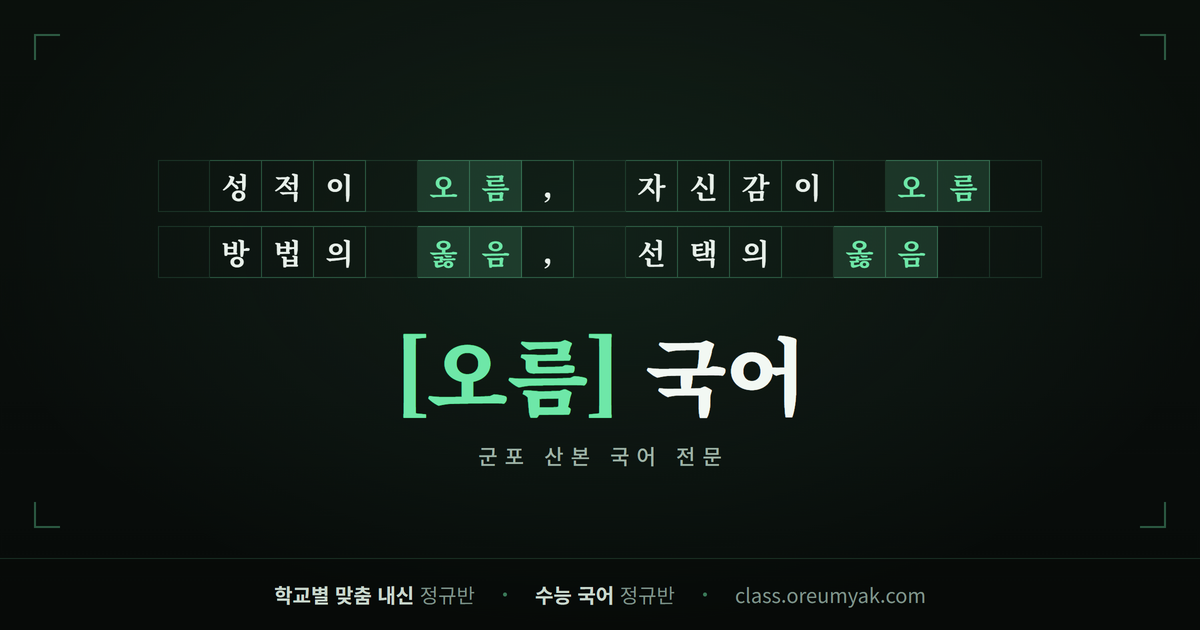
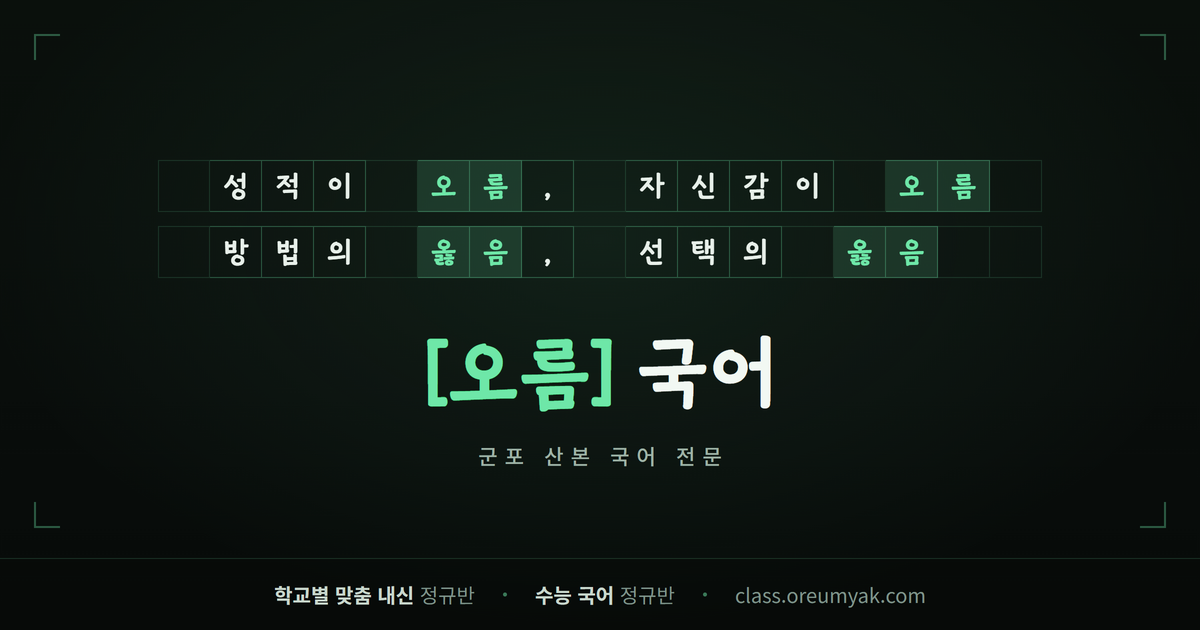
제목 서체를 학교안심 받아쓰기로 교체 (영상 썸네일 제외 전 영역)
- Tailwind serif 스택과 테마 CSS의 세리프 선언, 인트로 원고지, OG 이미지에
  Hakgyoansim Badasseugi(KERIS, OFL) 적용 — jsdelivr 동적 서브셋 로드
- Noto Serif KR은 폴백으로 유지

diff --git a/oreum-theme.css b/oreum-theme.css
@@ -21,7 +21,7 @@ html.light {
 ::-webkit-scrollbar{width:8px;height:8px;}::-webkit-scrollbar-track{background:rgb(var(--c-surface-bright));}::-webkit-scrollbar-thumb{background:rgb(var(--c-surface-container-highest));border-radius:4px;}
 
 .eyebrow{font-size:12px;font-weight:700;letter-spacing:.22em;text-transform:uppercase;color:rgb(var(--c-gold));}
-.sec-title{font-family:'Noto Serif KR',serif;font-weight:700;}
+.sec-title{font-family:'Hakgyoansim Badasseugi','Noto Serif KR',serif;font-weight:700;}
 
 /* scroll reveal */
 .fi{opacity:0;transform:translateY(22px);transition:opacity .6s cubic-bezier(.22,1,.36,1),transform .6s cubic-bezier(.22,1,.36,1);}
@@ -46,7 +46,7 @@ html.light {
 .tp-card{border:1px solid rgb(var(--c-outline-variant));border-radius:20px;background:rgb(var(--c-surface-container-lowest));overflow:hidden;}
 .tp-head{display:flex;align-items:center;gap:16px;padding:22px 26px;cursor:pointer;}
 .tp-badge{font-size:11px;font-weight:800;letter-spacing:.08em;color:rgb(var(--c-on-secondary));background:rgb(var(--c-secondary));padding:5px 11px;border-radius:999px;white-space:nowrap;}
-.tp-ttl{font-family:'Noto Serif KR',serif;font-weight:700;font-size:19px;color:rgb(var(--c-on-surface));display:flex;flex-direction:column;gap:3px;}
+.tp-ttl{font-family:'Hakgyoansim Badasseugi','Noto Serif KR',serif;font-weight:700;font-size:19px;color:rgb(var(--c-on-surface));display:flex;flex-direction:column;gap:3px;}
 .tp-ttl small{font-family:'Inter','Noto Sans KR';font-weight:500;font-size:12.5px;color:rgb(var(--c-on-surface-variant));letter-spacing:0;}
 .tp-chev{margin-left:auto;display:flex;align-items:center;gap:8px;color:rgb(var(--c-secondary));font-size:13px;font-weight:700;white-space:nowrap;}
 .tp-chev .ar{transition:transform .3s;}
@@ -62,7 +62,7 @@ html.light {
 .tc-photo{width:96px;height:96px;border-radius:50%;object-fit:cover;object-position:top;margin:0 auto 14px;border:2px solid rgba(110,231,168,.35);background:rgb(var(--c-surface-container));}
 .tc-role{display:inline-block;font-size:11px;font-weight:700;color:rgb(var(--c-secondary));background:rgb(var(--c-secondary-fixed));padding:3px 10px;border-radius:999px;margin-bottom:8px;}
 .tc-role.head{color:#1a1206;background:rgb(var(--c-gold));}
-.tc-name{font-family:'Noto Serif KR',serif;font-weight:700;font-size:18px;color:rgb(var(--c-on-surface));}
+.tc-name{font-family:'Hakgyoansim Badasseugi','Noto Serif KR',serif;font-weight:700;font-size:18px;color:rgb(var(--c-on-surface));}
 .tc-desc{font-size:12.5px;color:rgb(var(--c-on-surface-variant));margin-top:6px;line-height:1.5;}
 
 /* 강사 페이지 featured 원장 카드 (고정 다크) */
@@ -90,7 +90,7 @@ html.light {
 .mgmt-icon{width:52px;height:52px;margin:0 auto 16px;border-radius:14px;background:rgb(var(--c-secondary-fixed));color:rgb(var(--c-secondary));display:flex;align-items:center;justify-content:center;}
 .mgmt-icon svg{width:26px;height:26px;}
 .mgmt-title{font-size:13px;font-weight:600;color:rgb(var(--c-on-surface-variant));}
-.mgmt-value{font-family:'Noto Serif KR',serif;font-weight:700;font-size:26px;color:rgb(var(--c-on-surface));margin:6px 0 12px;}
+.mgmt-value{font-family:'Hakgyoansim Badasseugi','Noto Serif KR',serif;font-weight:700;font-size:26px;color:rgb(var(--c-on-surface));margin:6px 0 12px;}
 .mgmt-desc{font-size:13px;line-height:1.6;color:rgb(var(--c-on-surface-variant));}
 
 /* ===== 유튜브 ===== */
@@ -109,7 +109,7 @@ html.light {
 /* ===== 여름특강 시간표 (요일 컬럼 · 시간대 그룹 · 동시 강좌) ===== */
 .si-grid{display:grid;grid-template-columns:repeat(6,minmax(0,1fr));gap:15px;}
 .si-dh{display:flex;align-items:center;gap:9px;padding-bottom:12px;margin-bottom:16px;border-bottom:2px solid rgb(var(--c-outline-variant));}
-.si-dname{font-family:'Noto Serif KR',serif;font-weight:700;font-size:17px;color:rgb(var(--c-on-surface));}
+.si-dname{font-family:'Hakgyoansim Badasseugi','Noto Serif KR',serif;font-weight:700;font-size:17px;color:rgb(var(--c-on-surface));}
 .si-dcnt{width:22px;height:22px;border-radius:50%;display:flex;align-items:center;justify-content:center;font-size:11.5px;font-weight:700;background:rgb(var(--c-surface-container-high));color:rgb(var(--c-on-surface-variant));}
 .si-dh.wknd .si-dname{color:rgb(var(--c-secondary));}
 .si-dh.wknd .si-dcnt{background:rgb(var(--c-secondary-fixed));color:rgb(var(--c-secondary));}
@@ -151,9 +151,9 @@ html.light {
 .sum-wrap{display:flex;flex-direction:column;gap:20px;}
 .sum-day{background:rgb(var(--c-surface-container-lowest));border:1px solid rgb(var(--c-outline-variant));border-radius:16px;overflow:hidden;}
 .sum-dh{display:flex;align-items:center;gap:12px;padding:14px 20px;border-bottom:1px solid rgb(var(--c-outline-variant));background:rgb(var(--c-surface-container));}
-.sum-dh .dnum{width:30px;height:30px;border-radius:9px;display:flex;align-items:center;justify-content:center;font-family:'Noto Serif KR',serif;font-weight:700;font-size:15px;background:rgb(var(--c-secondary-fixed));color:rgb(var(--c-secondary));}
+.sum-dh .dnum{width:30px;height:30px;border-radius:9px;display:flex;align-items:center;justify-content:center;font-family:'Hakgyoansim Badasseugi','Noto Serif KR',serif;font-weight:700;font-size:15px;background:rgb(var(--c-secondary-fixed));color:rgb(var(--c-secondary));}
 .sum-dh.wknd .dnum{background:rgb(var(--c-secondary));color:rgb(var(--c-on-secondary));}
-.sum-dh .dname{font-family:'Noto Serif KR',serif;font-weight:700;font-size:16px;color:rgb(var(--c-on-surface));}
+.sum-dh .dname{font-family:'Hakgyoansim Badasseugi','Noto Serif KR',serif;font-weight:700;font-size:16px;color:rgb(var(--c-on-surface));}
 .sum-dh .dcnt{margin-left:auto;font-size:12px;font-weight:700;color:rgb(var(--c-on-surface-variant));background:rgb(var(--c-surface-container-high));padding:4px 11px;border-radius:999px;}
 .sum-row{display:grid;grid-template-columns:150px 1fr auto auto;gap:16px;align-items:center;padding:14px 20px;transition:background .2s;}
 .sum-row + .sum-row{border-top:1px solid rgb(var(--c-outline-variant));}
@@ -183,7 +183,7 @@ html.light {
 .course-card{background:rgb(var(--c-surface-container-lowest));border:1px solid rgb(var(--c-outline-variant));border-radius:16px;overflow:hidden;}
 .card-main{padding:22px 24px;}
 .card-header{display:flex;align-items:center;margin-bottom:14px;}
-.card-school-name{font-family:'Noto Serif KR',serif;font-weight:700;font-size:19px;color:rgb(var(--c-on-surface));}
+.card-school-name{font-family:'Hakgyoansim Badasseugi','Noto Serif KR',serif;font-weight:700;font-size:19px;color:rgb(var(--c-on-surface));}
 .card-grade{font-size:11px;font-weight:700;color:rgb(var(--c-secondary));background:rgb(var(--c-secondary-fixed));padding:3px 9px;border-radius:999px;}
 .card-meta{display:flex;flex-direction:column;gap:8px;margin-bottom:14px;}
 .card-meta-item{display:flex;align-items:center;gap:8px;font-size:13px;color:rgb(var(--c-on-surface-variant));}
@@ -211,7 +211,7 @@ html.light {
 .wk-scroll{overflow-x:auto;-webkit-overflow-scrolling:touch;padding-bottom:4px;}
 .wk-grid{display:grid;grid-template-columns:58px repeat(6,minmax(148px,1fr));gap:8px;min-width:860px;}
 .wk-corner{}
-.wk-dayh{background:rgb(var(--c-surface-container));border:1px solid rgb(var(--c-outline-variant));border-radius:12px;padding:11px 0;text-align:center;font-family:'Noto Serif KR',serif;font-weight:700;font-size:15px;color:rgb(var(--c-on-surface));}
+.wk-dayh{background:rgb(var(--c-surface-container));border:1px solid rgb(var(--c-outline-variant));border-radius:12px;padding:11px 0;text-align:center;font-family:'Hakgyoansim Badasseugi','Noto Serif KR',serif;font-weight:700;font-size:15px;color:rgb(var(--c-on-surface));}
 .wk-dayh.wknd{color:rgb(var(--c-secondary));background:rgb(var(--c-secondary-fixed));border-color:rgba(110,231,168,.28);}
 .wk-timeh{display:flex;flex-direction:column;align-items:center;justify-content:center;gap:2px;font-size:12px;font-weight:700;color:rgb(var(--c-on-surface-variant));}
 .wk-timeh small{font-size:10px;font-weight:600;opacity:.7;}
@@ -252,7 +252,7 @@ html.light {
 .faq-item + .faq-item{margin-top:10px;}
 .faq-item summary{list-style:none;cursor:pointer;padding:18px 22px;display:flex;align-items:center;gap:12px;font-size:15px;font-weight:600;color:rgb(var(--c-on-surface));}
 .faq-item summary::-webkit-details-marker{display:none;}
-.faq-item summary .q{width:24px;height:24px;border-radius:7px;background:rgb(var(--c-secondary-fixed));color:rgb(var(--c-secondary));display:flex;align-items:center;justify-content:center;font-weight:800;font-size:13px;flex-shrink:0;font-family:'Noto Serif KR',serif;}
+.faq-item summary .q{width:24px;height:24px;border-radius:7px;background:rgb(var(--c-secondary-fixed));color:rgb(var(--c-secondary));display:flex;align-items:center;justify-content:center;font-weight:800;font-size:13px;flex-shrink:0;font-family:'Hakgyoansim Badasseugi','Noto Serif KR',serif;}
 .faq-item summary .chev{margin-left:auto;transition:transform .3s;color:rgb(var(--c-on-surface-variant));}
 .faq-item[open] summary .chev{transform:rotate(180deg);}
 .faq-a{padding:0 22px 20px 58px;font-size:14px;line-height:1.7;color:rgb(var(--c-on-surface-variant));}
@@ -265,10 +265,10 @@ html.light {
 
 /* ===== 실적 통계 ===== */
 .res-stat{text-align:center;padding:26px 16px;background:rgb(var(--c-surface-container-lowest));border:1px solid rgb(var(--c-outline-variant));border-radius:18px;}
-.res-num{font-family:'Noto Serif KR',serif;font-weight:700;font-size:40px;color:rgb(var(--c-secondary));line-height:1;}
+.res-num{font-family:'Hakgyoansim Badasseugi','Noto Serif KR',serif;font-weight:700;font-size:40px;color:rgb(var(--c-secondary));line-height:1;}
 .res-lb{font-size:13px;color:rgb(var(--c-on-surface-variant));margin-top:10px;}
 .res-case{display:flex;align-items:center;gap:14px;background:rgb(var(--c-surface-container-lowest));border:1px solid rgb(var(--c-outline-variant));border-radius:14px;padding:16px 20px;}
-.res-jump{display:flex;align-items:center;gap:6px;font-family:'Noto Serif KR',serif;font-weight:700;font-size:17px;color:rgb(var(--c-on-surface));white-space:nowrap;}
+.res-jump{display:flex;align-items:center;gap:6px;font-family:'Hakgyoansim Badasseugi','Noto Serif KR',serif;font-weight:700;font-size:17px;color:rgb(var(--c-on-surface));white-space:nowrap;}
 .res-jump .from{color:rgb(var(--c-on-surface-variant));}
 .res-jump .to{color:rgb(var(--c-secondary));}
 .res-jump .ar{color:rgb(var(--c-secondary));}
@@ -281,7 +281,7 @@ html.light {
 .rp-close{position:absolute;top:15px;right:15px;width:34px;height:34px;border-radius:10px;border:0;background:rgba(255,255,255,.06);color:#9db8a8;cursor:pointer;display:flex;align-items:center;justify-content:center;transition:background .2s;}
 .rp-close:hover{background:rgba(255,255,255,.12);}
 .rp-badge{display:inline-flex;align-items:center;gap:6px;font-size:11px;font-weight:800;letter-spacing:.1em;color:#1a1206;background:#fbcf5b;padding:5px 13px;border-radius:999px;}
-.rp-h{font-family:'Noto Serif KR',serif;font-weight:700;font-size:23px;color:#eaf3ec;margin:16px 0 8px;line-height:1.4;}
+.rp-h{font-family:'Hakgyoansim Badasseugi','Noto Serif KR',serif;font-weight:700;font-size:23px;color:#eaf3ec;margin:16px 0 8px;line-height:1.4;}
 .rp-h b{color:#6ee7a8;}
 .rp-sub{font-size:13.5px;color:#b3c8ba;line-height:1.6;}
 .rp-list{text-align:left;margin:22px 0;display:flex;flex-direction:column;gap:11px;}
@@ -352,7 +352,7 @@ html.light {
 .tcar-card .ov{position:absolute;left:0;right:0;bottom:0;padding:18px 20px 18px;}
 .tcar-card .role{display:inline-block;font-size:10.5px;font-weight:800;letter-spacing:.08em;color:rgb(var(--c-secondary));background:rgba(110,231,168,.14);border:1px solid rgba(110,231,168,.3);padding:3px 9px;border-radius:999px;}
 .tcar-card .role.head{color:#1a1206;background:#fbcf5b;border-color:#fbcf5b;}
-.tcar-card .nm{font-family:'Noto Serif KR',serif;font-weight:700;font-size:23px;color:#f2f8f3;margin-top:8px;}
+.tcar-card .nm{font-family:'Hakgyoansim Badasseugi','Noto Serif KR',serif;font-weight:700;font-size:23px;color:#f2f8f3;margin-top:8px;}
 .tcar-card .sht{font-size:12.5px;color:#c4d4c8;margin-top:4px;word-break:keep-all;overflow-wrap:break-word;text-wrap:pretty;}
 .tcar-card .dsc{font-size:12px;color:#a8bcae;line-height:1.55;margin-top:8px;opacity:0;max-height:0;transition:opacity .35s,max-height .35s;word-break:keep-all;overflow-wrap:break-word;text-wrap:pretty;}
 .tcar-card.ctr{border-color:rgba(110,231,168,.55);box-shadow:0 30px 64px rgba(0,0,0,.6),0 0 0 1px rgba(110,231,168,.25);}
@@ -365,6 +365,6 @@ html.light {
 .tcar-detail img{width:86px;height:86px;border-radius:50%;object-fit:cover;object-position:top;border:2px solid rgba(110,231,168,.35);flex-shrink:0;background:#0d1a12;}
 .tcar-detail .role{display:inline-block;font-size:10.5px;font-weight:800;letter-spacing:.08em;color:rgb(var(--c-secondary));background:rgba(110,231,168,.14);border:1px solid rgba(110,231,168,.3);padding:3px 9px;border-radius:999px;}
 .tcar-detail .role.head{color:#1a1206;background:#fbcf5b;border-color:#fbcf5b;}
-.tcar-detail .nm{font-family:'Noto Serif KR',serif;font-weight:700;font-size:19px;color:rgb(var(--c-on-surface));margin-top:6px;}
+.tcar-detail .nm{font-family:'Hakgyoansim Badasseugi','Noto Serif KR',serif;font-weight:700;font-size:19px;color:rgb(var(--c-on-surface));margin-top:6px;}
 .tcar-detail .dsc{font-size:13px;color:rgb(var(--c-on-surface-variant));line-height:1.7;margin-top:7px;word-break:keep-all;overflow-wrap:break-word;text-wrap:pretty;}
 @media(max-width:560px){.tcar-detail{flex-direction:column;align-items:center;text-align:center;}}

diff --git a/courses.html b/courses.html
@@ -31,12 +31,13 @@
 <link href="https://fonts.googleapis.com/css2?family=Inter:wght@400;500;600;700;800&display=swap" rel="stylesheet"/>
 <link href="https://fonts.googleapis.com/css2?family=Noto+Sans+KR:wght@400;500;600;700;800&display=swap" rel="stylesheet"/>
 <link href="https://fonts.googleapis.com/css2?family=Noto+Serif+KR:wght@500;600;700&display=swap" rel="stylesheet"/>
+<link href="https://cdn.jsdelivr.net/gh/fonts-archive/HakgyoansimBadasseugi/subsets/HakgyoansimBadasseugi-dynamic-subset.css" rel="stylesheet"/>
 <link href="https://fonts.googleapis.com/css2?family=Material+Symbols+Outlined:wght,FILL@100..700,0..1&display=swap" rel="stylesheet"/>
 <script id="tailwind-config">
   tailwind.config = { darkMode:"class", theme:{ extend:{
     "colors":{ "background":"rgb(var(--c-background) / <alpha-value>)","surface-bright":"rgb(var(--c-surface-bright) / <alpha-value>)","surface":"rgb(var(--c-surface) / <alpha-value>)","surface-container-lowest":"rgb(var(--c-surface-container-lowest) / <alpha-value>)","surface-container-low":"rgb(var(--c-surface-container-low) / <alpha-value>)","surface-container":"rgb(var(--c-surface-container) / <alpha-value>)","surface-container-high":"rgb(var(--c-surface-container-high) / <alpha-value>)","surface-container-highest":"rgb(var(--c-surface-container-highest) / <alpha-value>)","outline-variant":"rgb(var(--c-outline-variant) / <alpha-value>)","outline":"rgb(var(--c-outline) / <alpha-value>)","on-surface":"rgb(var(--c-on-surface) / <alpha-value>)","on-surface-variant":"rgb(var(--c-on-surface-variant) / <alpha-value>)","secondary":"rgb(var(--c-secondary) / <alpha-value>)","on-secondary":"rgb(var(--c-on-secondary) / <alpha-value>)","secondary-fixed":"rgb(var(--c-secondary-fixed) / <alpha-value>)","gold":"rgb(var(--c-gold) / <alpha-value>)" },
     "spacing":{ "margin-desktop":"40px","margin-mobile":"16px","gutter":"24px","container-max":"1200px" },
-    "fontFamily":{ "sans":["Inter","Noto Sans KR"],"serif":["Noto Serif KR","serif"] },
+    "fontFamily":{ "sans":["Inter","Noto Sans KR"],"serif":["Hakgyoansim Badasseugi","Noto Serif KR","serif"] },
     "fontSize":{ "display-lg":["48px",{"lineHeight":"58px","letterSpacing":"-0.02em","fontWeight":"700"}],"display-mobile":["32px",{"lineHeight":"42px","letterSpacing":"-0.01em","fontWeight":"700"}],"headline-lg":["30px",{"lineHeight":"38px","letterSpacing":"-0.01em","fontWeight":"700"}],"headline-md":["22px",{"lineHeight":"30px","fontWeight":"700"}],"body-lg":["18px",{"lineHeight":"28px","fontWeight":"400"}],"body-md":["16px",{"lineHeight":"24px","fontWeight":"400"}],"label-md":["14px",{"lineHeight":"20px","letterSpacing":"0.01em","fontWeight":"500"}],"label-sm":["12px",{"lineHeight":"16px","letterSpacing":"0.06em","fontWeight":"600"}] }
   }}}
 </script>

diff --git a/index.html b/index.html
@@ -31,12 +31,13 @@
 <link href="https://fonts.googleapis.com/css2?family=Inter:wght@400;500;600;700;800&display=swap" rel="stylesheet"/>
 <link href="https://fonts.googleapis.com/css2?family=Noto+Sans+KR:wght@400;500;600;700;800&display=swap" rel="stylesheet"/>
 <link href="https://fonts.googleapis.com/css2?family=Noto+Serif+KR:wght@500;600;700&display=swap" rel="stylesheet"/>
+<link href="https://cdn.jsdelivr.net/gh/fonts-archive/HakgyoansimBadasseugi/subsets/HakgyoansimBadasseugi-dynamic-subset.css" rel="stylesheet"/>
 <link href="https://fonts.googleapis.com/css2?family=Material+Symbols+Outlined:wght,FILL@100..700,0..1&display=swap" rel="stylesheet"/>
 <script id="tailwind-config">
   tailwind.config = { darkMode:"class", theme:{ extend:{
     "colors":{ "background":"rgb(var(--c-background) / <alpha-value>)","surface-bright":"rgb(var(--c-surface-bright) / <alpha-value>)","surface":"rgb(var(--c-surface) / <alpha-value>)","surface-container-lowest":"rgb(var(--c-surface-container-lowest) / <alpha-value>)","surface-container-low":"rgb(var(--c-surface-container-low) / <alpha-value>)","surface-container":"rgb(var(--c-surface-container) / <alpha-value>)","surface-container-high":"rgb(var(--c-surface-container-high) / <alpha-value>)","surface-container-highest":"rgb(var(--c-surface-container-highest) / <alpha-value>)","outline-variant":"rgb(var(--c-outline-variant) / <alpha-value>)","outline":"rgb(var(--c-outline) / <alpha-value>)","on-surface":"rgb(var(--c-on-surface) / <alpha-value>)","on-surface-variant":"rgb(var(--c-on-surface-variant) / <alpha-value>)","secondary":"rgb(var(--c-secondary) / <alpha-value>)","on-secondary":"rgb(var(--c-on-secondary) / <alpha-value>)","secondary-fixed":"rgb(var(--c-secondary-fixed) / <alpha-value>)","gold":"rgb(var(--c-gold) / <alpha-value>)" },
     "spacing":{ "margin-desktop":"40px","margin-mobile":"16px","gutter":"24px","container-max":"1200px" },
-    "fontFamily":{ "sans":["Inter","Noto Sans KR"],"serif":["Noto Serif KR","serif"] },
+    "fontFamily":{ "sans":["Inter","Noto Sans KR"],"serif":["Hakgyoansim Badasseugi","Noto Serif KR","serif"] },
     "fontSize":{ "display-lg":["48px",{"lineHeight":"58px","letterSpacing":"-0.02em","fontWeight":"700"}],"display-mobile":["32px",{"lineHeight":"42px","letterSpacing":"-0.01em","fontWeight":"700"}],"headline-lg":["30px",{"lineHeight":"38px","letterSpacing":"-0.01em","fontWeight":"700"}],"headline-md":["22px",{"lineHeight":"30px","fontWeight":"700"}],"body-lg":["18px",{"lineHeight":"28px","fontWeight":"400"}],"body-md":["16px",{"lineHeight":"24px","fontWeight":"400"}],"label-md":["14px",{"lineHeight":"20px","letterSpacing":"0.01em","fontWeight":"500"}],"label-sm":["12px",{"lineHeight":"16px","letterSpacing":"0.06em","fontWeight":"600"}] }
   }}}
 </script>

diff --git a/teacher.html b/teacher.html
@@ -31,12 +31,13 @@
 <link href="https://fonts.googleapis.com/css2?family=Inter:wght@400;500;600;700;800&display=swap" rel="stylesheet"/>
 <link href="https://fonts.googleapis.com/css2?family=Noto+Sans+KR:wght@400;500;600;700;800&display=swap" rel="stylesheet"/>
 <link href="https://fonts.googleapis.com/css2?family=Noto+Serif+KR:wght@500;600;700&display=swap" rel="stylesheet"/>
+<link href="https://cdn.jsdelivr.net/gh/fonts-archive/HakgyoansimBadasseugi/subsets/HakgyoansimBadasseugi-dynamic-subset.css" rel="stylesheet"/>
 <link href="https://fonts.googleapis.com/css2?family=Material+Symbols+Outlined:wght,FILL@100..700,0..1&display=swap" rel="stylesheet"/>
 <script id="tailwind-config">
   tailwind.config = { darkMode:"class", theme:{ extend:{
     "colors":{ "background":"rgb(var(--c-background) / <alpha-value>)","surface-bright":"rgb(var(--c-surface-bright) / <alpha-value>)","surface":"rgb(var(--c-surface) / <alpha-value>)","surface-container-lowest":"rgb(var(--c-surface-container-lowest) / <alpha-value>)","surface-container-low":"rgb(var(--c-surface-container-low) / <alpha-value>)","surface-container":"rgb(var(--c-surface-container) / <alpha-value>)","surface-container-high":"rgb(var(--c-surface-container-high) / <alpha-value>)","surface-container-highest":"rgb(var(--c-surface-container-highest) / <alpha-value>)","outline-variant":"rgb(var(--c-outline-variant) / <alpha-value>)","outline":"rgb(var(--c-outline) / <alpha-value>)","on-surface":"rgb(var(--c-on-surface) / <alpha-value>)","on-surface-variant":"rgb(var(--c-on-surface-variant) / <alpha-value>)","secondary":"rgb(var(--c-secondary) / <alpha-value>)","on-secondary":"rgb(var(--c-on-secondary) / <alpha-value>)","secondary-fixed":"rgb(var(--c-secondary-fixed) / <alpha-value>)","gold":"rgb(var(--c-gold) / <alpha-value>)" },
     "spacing":{ "margin-desktop":"40px","margin-mobile":"16px","gutter":"24px","container-max":"1200px" },
-    "fontFamily":{ "sans":["Inter","Noto Sans KR"],"serif":["Noto Serif KR","serif"] },
+    "fontFamily":{ "sans":["Inter","Noto Sans KR"],"serif":["Hakgyoansim Badasseugi","Noto Serif KR","serif"] },
     "fontSize":{ "display-lg":["48px",{"lineHeight":"58px","letterSpacing":"-0.02em","fontWeight":"700"}],"display-mobile":["32px",{"lineHeight":"42px","letterSpacing":"-0.01em","fontWeight":"700"}],"headline-lg":["30px",{"lineHeight":"38px","letterSpacing":"-0.01em","fontWeight":"700"}],"headline-md":["22px",{"lineHeight":"30px","fontWeight":"700"}],"body-lg":["18px",{"lineHeight":"28px","fontWeight":"400"}],"body-md":["16px",{"lineHeight":"24px","fontWeight":"400"}],"label-md":["14px",{"lineHeight":"20px","letterSpacing":"0.01em","fontWeight":"500"}],"label-sm":["12px",{"lineHeight":"16px","letterSpacing":"0.06em","fontWeight":"600"}] }
   }}}
 </script>

diff --git a/oreum-intro.js b/oreum-intro.js
@@ -11,7 +11,7 @@
   } catch (e) {}
 
   var css = [
-    '#oi{position:fixed;inset:0;z-index:9999;background:rgb(var(--c-background));display:flex;flex-direction:column;align-items:center;justify-content:center;transition:transform .7s cubic-bezier(.7,0,.2,1),opacity .7s;font-family:"Noto Serif KR",serif;}',
+    '#oi{position:fixed;inset:0;z-index:9999;background:rgb(var(--c-background));display:flex;flex-direction:column;align-items:center;justify-content:center;transition:transform .7s cubic-bezier(.7,0,.2,1),opacity .7s;font-family:"Hakgyoansim Badasseugi","Noto Serif KR",serif;}',
     '#oi.out{transform:translateY(-100%);}',
     '#oi .glow{position:absolute;width:70vmax;height:70vmax;border-radius:50%;background:radial-gradient(circle,rgb(var(--c-secondary)/.10),transparent 65%);pointer-events:none;}',
     '#oi .sheet{display:grid;gap:0;row-gap:var(--rg);transition:opacity .4s;position:relative;}',
